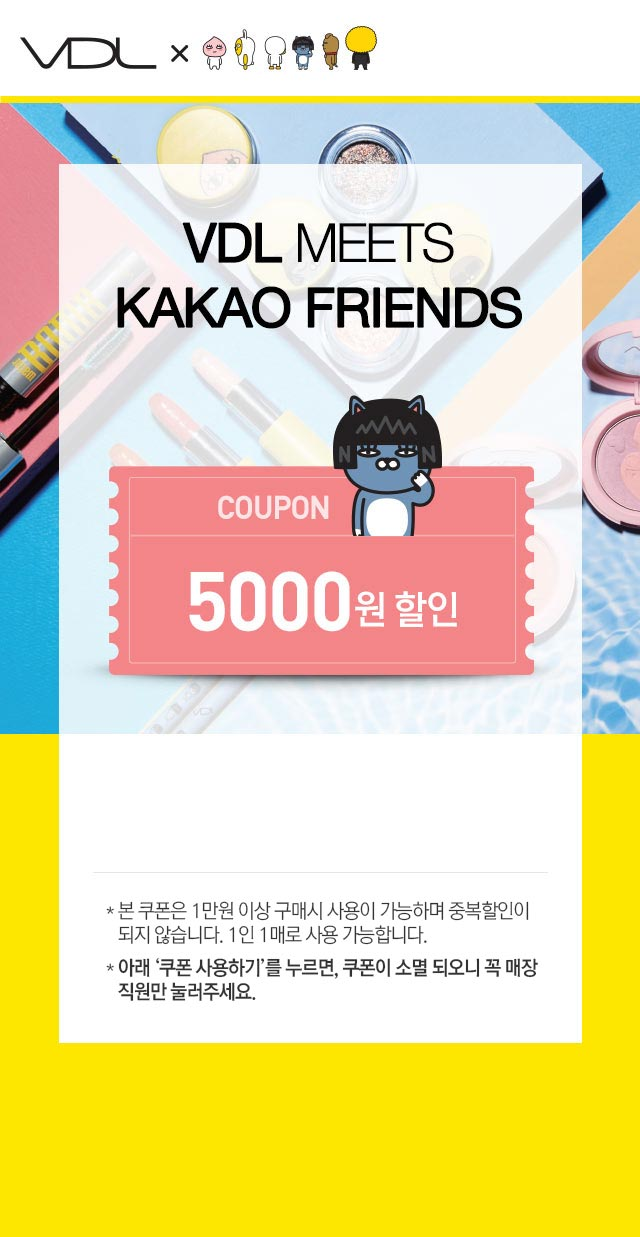
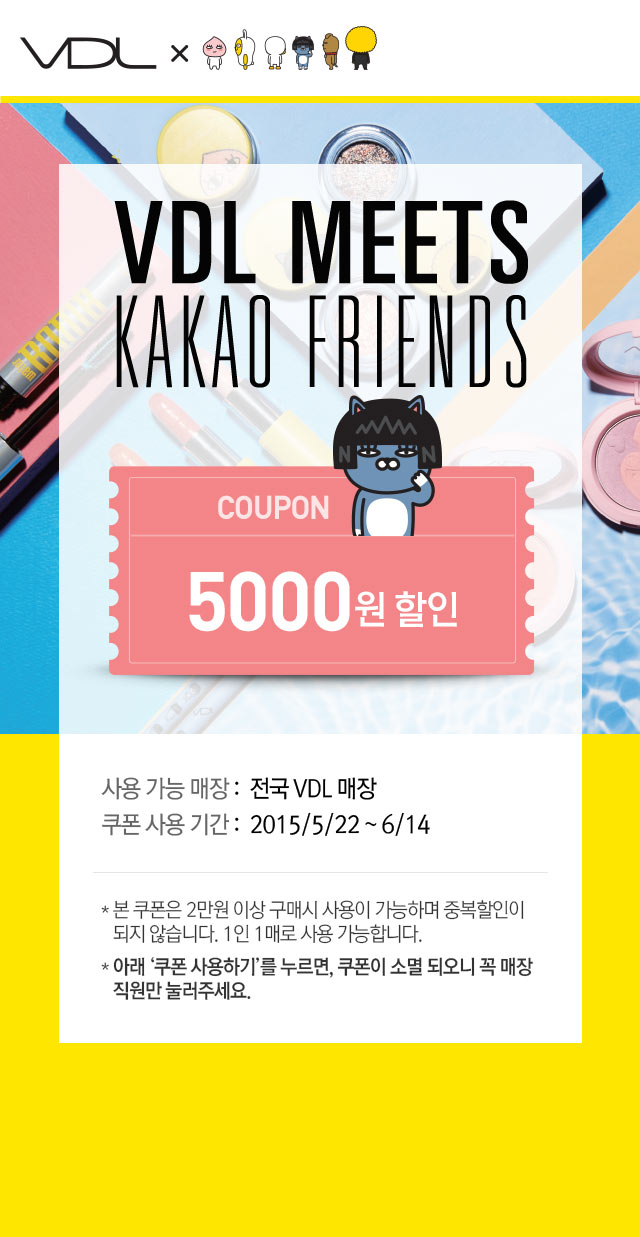
쿠폰 페이지 수정

diff --git a/MOBILE/css/style.css b/MOBILE/css/style.css
@@ -372,45 +372,50 @@ body{
 	height:100%;
 	background:#fee600;
 }
+.block_coupon .info_txt{
+	width:21%;
+	position:absolute;
+	bottom:35%;
+	right:19%;
+}
+.block_coupon .info_txt a,
+.block_coupon .info_txt a img{
+	width:100%;
+}
 .block_coupon .btn_block{
 	width:100%;
 	position:absolute;
 	text-align:center;
 	bottom:5%;
 }
+
 .block_coupon .btn_block img{
 	width:80%;
 }
-.block_coupon .info_txt{
-	width:85%;
-	padding-left:15%;
-	position:absolute;
-	top:62%;
-	font-size:15px;
-	font-weight:bold;
-	letter-spacing:-1px;
-}
+
 .block_coupon .info_txt .inner_info,
 .block_coupon .info_txt ul{
 	width:100%;
 }
 .block_coupon .info_txt ul li{
 	list-style:none;
-	display:block;
-	float:left;
 	font-size:14px;
+	letter-spacing:-1px;
 }
 .block_coupon .info_txt ul li a{
 	display:inline-block;
 	padding-left:5px;
 	color:#41baeb;
+	display:inline-block;
+	padding-top:2px;
 }
 .block_coupon .info_txt ul li.txt_1{
-	width:24%;
 	color:#666;
 }
+.block_coupon .info_txt ul li.txt_1 span{
+	color:#000;
+}
 .block_coupon .info_txt ul li.txt_2{
-	width:66%;
 }
 .block_coupon .img_coupon_bg,
 .block_coupon .img_coupon_bg img{

diff --git a/MOBILE/m_coupon.html b/MOBILE/m_coupon.html
@@ -16,16 +16,7 @@ initial-scale=1.0, maximum-scale=3.0"/>
 <body class="bg_coupon_body">
 	<div class="block_coupon">
     	<div class="info_txt">
-        	<div class="inner_info">
-                <ul class="clearfix">
-                    <li class="txt_1">사용 가능 매장</li>
-                    <li class="txt_2">: 전국 VDL 매장 <a class="btn_store" href="http://www.vdlcosmetics.com/m/story/store/offline.jsp" target="_blank">STORE INFO</a></li>
-                </ul>
-                <ul class="clearfix">
-                    <li class="txt_1 ts">쿠폰 사용 기간</li>
-                    <li class="txt_2s">: 2015/5/22 ~ 6/14</li>
-                </ul>
-            </div>
+          <a class="btn_store" href="http://www.vdlcosmetics.com/m/story/store/offline.jsp" target="_blank"><img src="images/btn_store.png" /></a>
         </div>
         <div class="btn_block"><a href="#"><img src="images/btn_coupon_use.png" /></a></div> <!-- 사용된 버튼 명 btn_coupon_used.png-->
     	<div class="img_coupon_bg"><img src="images/bg_coupon.jpg" /></div>

diff --git a/MOBILE/winner_coupon.php b/MOBILE/winner_coupon.php
@@ -63,11 +63,11 @@
         	<div class="inner_info">
                 <ul class="clearfix">
                     <li class="txt_1">사용 가능 매장</li>
-                    <li class="txt_2">: 전국 VDL 매장 <a href="http://www.vdlcosmetics.com/m/story/store/offline.jsp" target="_blank">STORE INFO</a></li>
+                    <li class="txt_2">: 전국 VDL 매장 <a href="http://www.vdlcosmetics.com/m/story/store/offline.jsp" target="_blank"><img src="images/btn_store.png" width="65"/></a></li>
                 </ul>
                 <ul class="clearfix">
                     <li class="txt_1 ts">쿠폰 사용 기간</li>
-                    <li class="txt_2s">: 2015/5/22 ~ 6/14</li>
+                    <li class="txt_2">: 2015/5/22 ~ 6/14</li>
                 </ul>
             </div>
         </div>
